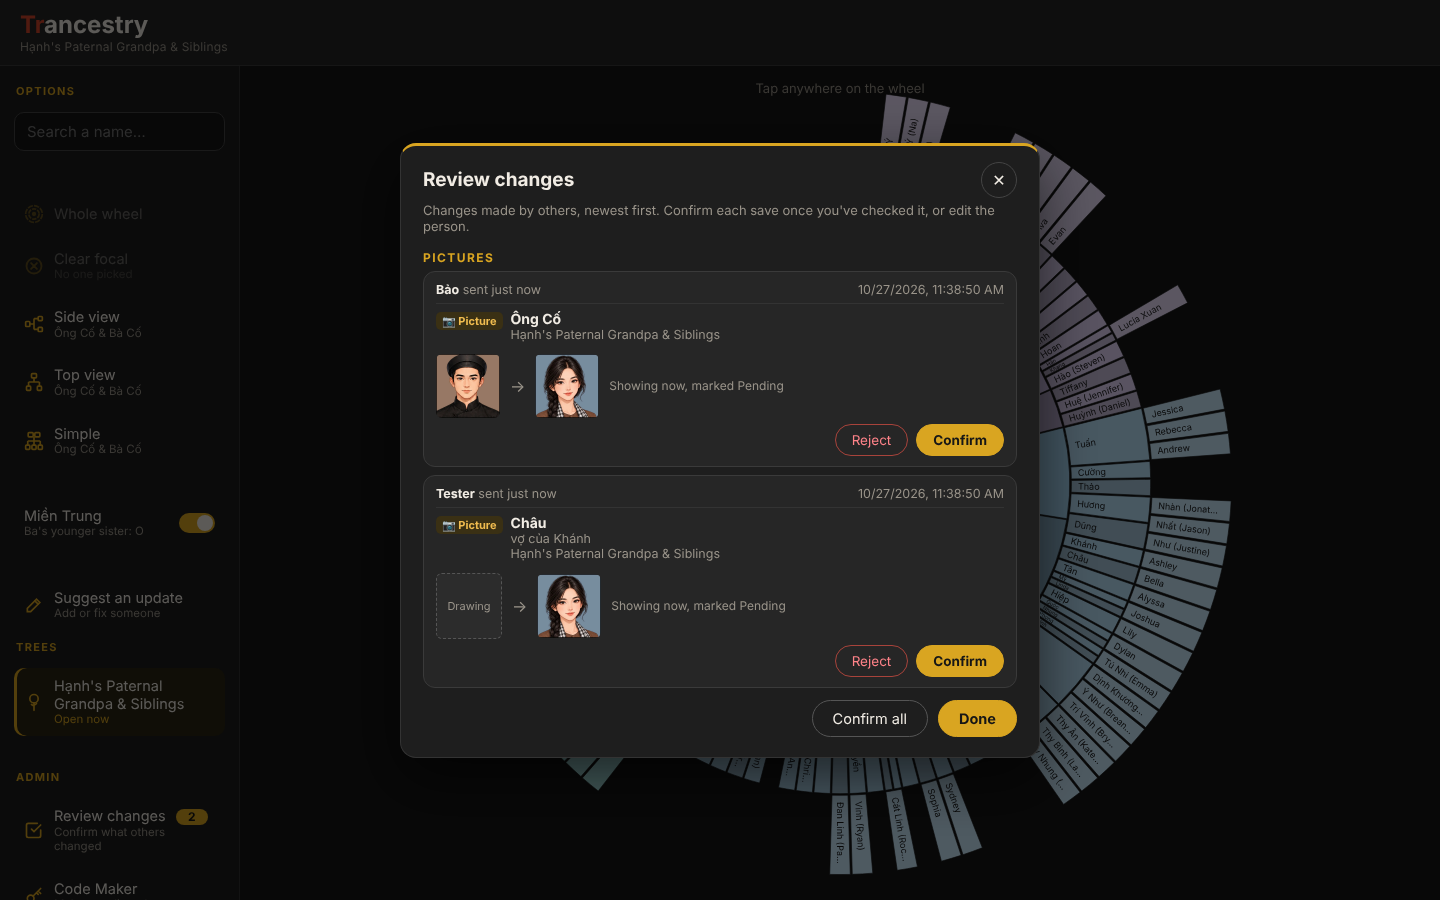
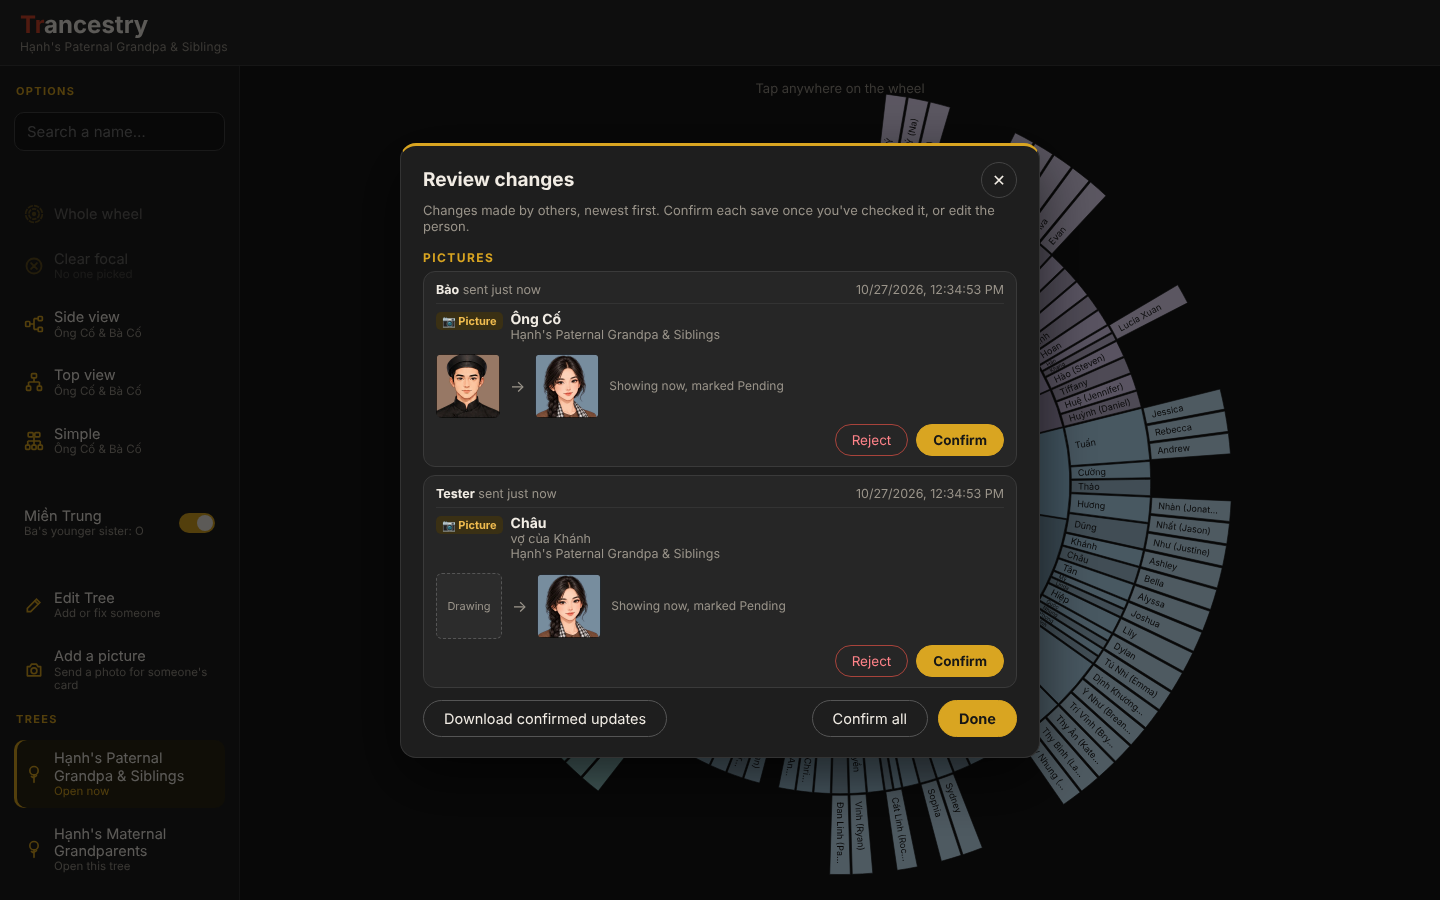
Entry 156: download confirmed updates + fold them into the repo

diff --git a/tools/tests/fold_live.js b/tools/tests/fold_live.js
@@ -1,0 +1,32 @@
+// End-to-end test of Minh's page against a local copy of the Supabase database (same SQL, anon role).
+// The page's calls to https://quqgwvwijvwshdpwvkrk.supabase.co are answered from local Postgres.
+const {chromium}=require('playwright');const {Client}=require('pg');
+const OUT=process.argv[2],TAG=process.argv[3]||'desktop';
+const VP=TAG==='phone'?{viewport:{width:412,height:891},isMobile:true,hasTouch:true,deviceScaleFactor:2}:{viewport:{width:1440,height:900}};
+(async()=>{
+ const db=new Client({host:'/var/tmp/hftpg',port:5499,user:'postgres',database:'hft'});await db.connect();
+ const admin=new Client({host:'/var/tmp/hftpg',port:5499,user:'postgres',database:'hft'});await admin.connect();
+ await db.query('set role anon');
+ let OFFLINE=false;
+ async function answer(route){const req=route.request(),u=new URL(req.url()),path=u.pathname.replace('/rest/v1/','');
+  if(OFFLINE)return route.abort();
+  if(req.headers()['apikey']!=='sb_publishable_nrPplI-hzHW96Ar3dmd5EQ_4AnptidV')return route.fulfill({status:401,body:'{"message":"bad key"}'});
+  try{let rows;
+   if(path==='trees'&&u.searchParams.get('or')){const x=/link\.eq\.([^,]+),/.exec(u.searchParams.get('or'))[1];rows=(await db.query('select id,link,old_links,name,doc,version from trees where link=$1 or $1=any(old_links)',[decodeURIComponent(x)])).rows}
+   else if(path==='trees')rows=(await db.query('select link,name,created_at from trees order by created_at')).rows;
+   else if(path==='people'){const ids=/^in\.\((.*)\)$/.exec(u.searchParams.get('id'))[1].split(',').map(decodeURIComponent);rows=(await db.query('select id,data from people where id=any($1)',[ids])).rows}
+   else if(path==='updates'){rows=(await db.query('select '+u.searchParams.get('select').split(',').map(c=>c.replace(/[^a-z_]/g,'')).join(',')+' from updates'+(u.searchParams.get('status')?' where status=\''+u.searchParams.get('status').replace('eq.','').replace(/[^a-z]/g,'')+'\'':'')+' order by id')).rows}
+   else if(path==='photos'){const sel=u.searchParams.get('select'),id=u.searchParams.get('id');rows=(await db.query('select '+sel.split(',').map(c=>c.replace(/[^a-z_]/g,'')).join(',')+' from photos'+(id?' where id = any(array['+(id.startsWith('in.')?id.slice(4,-1):id.slice(3)).split(',').map(Number).join(',')+']::bigint[])':'')+' order by at desc')).rows}
+   else if(path.startsWith('rpc/')){const fn=path.slice(4),a=JSON.parse(req.postData()),ks=Object.keys(a);
+    const r=await db.query(`select public.${fn}(${ks.map((k,i)=>`${k}=>$${i+1}`).join(',')}) as r`,ks.map(k=>Array.isArray(a[k])&&k!=='p_ops'?a[k]:typeof a[k]==='object'?JSON.stringify(a[k]):a[k]));rows=r.rows[0].r}
+   else return route.fulfill({status:404,body:'{}'});
+   route.fulfill({status:200,contentType:'application/json',body:JSON.stringify(rows)})}
+  catch(e){route.fulfill({status:400,contentType:'application/json',body:JSON.stringify({message:e.message})})}}
+ const b=await chromium.launch();
+ const mk=async()=>{const ctx=await b.newContext({...VP,acceptDownloads:true});await ctx.route('https://quqgwvwijvwshdpwvkrk.supabase.co/**',answer);const p=await ctx.newPage();p.errs=[];p.on('pageerror',e=>p.errs.push('ERR '+e.message));return p};
+ const ready=async p=>{await p.waitForFunction(()=>typeof window.EDIT==='function',null,{timeout:20000});await p.waitForTimeout(1500)};
+ await admin.query(`insert into updates(sender,summary,ops,status) values ('Tester','x','[{"op":"edit","id":"N262","set":{"alt":"Testfold"},"was":{"alt":""},"t":"hanh-paternal"}]','ok'),('Tester','y','[{"op":"edit","id":"N264","set":{"alt":"Nope"},"was":{"alt":""},"t":"hanh-paternal"}]','rejected')`);
+ const a=await mk();await a.goto('http://localhost:8765/?admin');await ready(a);await a.fill('#codeIn','ADMIN1');await a.click('#codeOk');await a.waitForTimeout(1500);
+ await a.evaluate(()=>{document.body.classList.add('pane-open');document.getElementById('pReview').click()});await a.waitForTimeout(1200);
+ const [dl]=await Promise.all([a.waitForEvent('download'),a.click('#revDl')]);await dl.saveAs(process.argv[4]);console.log('downloaded:',dl.suggestedFilename(),await a.textContent('#revDl'));
+ console.log(a.errs.length?a.errs:'no page errors');await b.close();await db.end();await admin.end()})();

diff --git a/index.html b/index.html
@@ -340,7 +340,7 @@ body.pane-open #pane{transform:none} body.pane-open #lHandle{display:none}
  <div class="top"><h2 id="revTitle">Review changes</h2><button class="x" id="revX" type="button" aria-label="Close">✕</button></div>
  <p id="revSub">Changes made by others, newest first. Confirm each save once you've checked it, or edit the person.</p>
  <div id="revBody"></div>
- <div class="foot"><button class="btn" id="revAll" type="button">Confirm all</button><button class="btn pri" id="revDone" type="button">Done</button></div>
+ <div class="foot"><button class="btn" id="revDl" type="button" style="margin-right:auto">Download confirmed updates</button><button class="btn" id="revAll" type="button">Confirm all</button><button class="btn pri" id="revDone" type="button">Done</button></div>
 </div></div>
 
 <!-- ============ Suggest an update — search first (Entry 144) ============ -->
@@ -1462,6 +1462,14 @@ window.ADMINUI=function(){
   location.href=(MINH.EDITBASE||'')+'?tree='+encodeURIComponent(link)+'&edit='+encodeURIComponent(pid)}
  rv.onclick=()=>{document.body.classList.remove('pane-open');render();dlg.classList.add('on');load()};
  $('revX').onclick=$('revDone').onclick=()=>{dlg.classList.remove('on');if(DIRTY){DIRTY=false;if(MINH.keep&&typeof viewNow==='function')MINH.keep(viewNow());location.reload()}};   // decided updates → redraw the tree
+ // Entry 156: every confirmed Edit Tree update as one file — Hanh attaches it in the chat and Claude folds it into the
+ // repo (data/updates.json) and lists the changes for the spreadsheet
+ $('revDl').onclick=async()=>{const b=$('revDl');b.textContent='Preparing…';
+  try{const KEY='sb_publishable_nrPplI-hzHW96Ar3dmd5EQ_4AnptidV',r=await fetch('https://quqgwvwijvwshdpwvkrk.supabase.co/rest/v1/updates?select=id,at,sender,summary,ops,status,decided_at,decided_by&status=eq.ok&order=id',{headers:{apikey:KEY,Authorization:'Bearer '+KEY}});
+   if(!r.ok)throw new Error(r.status);const rows=await r.json();
+   const blob=new Blob([JSON.stringify({exported_at:new Date().toISOString(),trees:window.TREENAMES||{},updates:rows},null,1)],{type:'application/json'});
+   const a=document.createElement('a');a.href=URL.createObjectURL(blob);a.download='trancestry-confirmed-updates-'+new Date().toISOString().slice(0,10)+'.json';document.body.appendChild(a);a.click();a.remove();
+   b.textContent='Downloaded ('+rows.length+')'}catch(e){b.textContent="Can't reach the database"}setTimeout(()=>b.textContent='Download confirmed updates',4000)};
  $('revAll').onclick=async()=>{if(UPD.length)await decideU(UPD.map(u=>u.id),true,null);if(PICS.length)await decide(PICS.map(p=>p.id),true,null);if(LIST.length)confirmIds(LIST.map(c=>c.id),$('revAll'))};
  addEventListener('keydown',e=>{if(e.key==='Escape'&&dlg.classList.contains('on')){e.stopImmediatePropagation();dlg.classList.remove('on')}},true);
  load();

diff --git a/minh/index.html b/minh/index.html
@@ -339,7 +339,7 @@ body.pane-open #pane{transform:none} body.pane-open #lHandle{display:none}
  <div class="top"><h2 id="revTitle">Review changes</h2><button class="x" id="revX" type="button" aria-label="Close">✕</button></div>
  <p id="revSub">Changes made by others, newest first. Confirm each save once you've checked it, or edit the person.</p>
  <div id="revBody"></div>
- <div class="foot"><button class="btn" id="revAll" type="button">Confirm all</button><button class="btn pri" id="revDone" type="button">Done</button></div>
+ <div class="foot"><button class="btn" id="revDl" type="button" style="margin-right:auto">Download confirmed updates</button><button class="btn" id="revAll" type="button">Confirm all</button><button class="btn pri" id="revDone" type="button">Done</button></div>
 </div></div>
 
 <script src="../v2/d3.min.js"></script>
@@ -1456,6 +1456,14 @@ window.ADMINUI=function(){
   location.href=(MINH.EDITBASE||'')+'?tree='+encodeURIComponent(link)+'&edit='+encodeURIComponent(pid)}
  rv.onclick=()=>{document.body.classList.remove('pane-open');render();dlg.classList.add('on');load()};
  $('revX').onclick=$('revDone').onclick=()=>{dlg.classList.remove('on');if(DIRTY){DIRTY=false;if(MINH.keep&&typeof viewNow==='function')MINH.keep(viewNow());location.reload()}};   // decided updates → redraw the tree
+ // Entry 156: every confirmed Edit Tree update as one file — Hanh attaches it in the chat and Claude folds it into the
+ // repo (data/updates.json) and lists the changes for the spreadsheet
+ $('revDl').onclick=async()=>{const b=$('revDl');b.textContent='Preparing…';
+  try{const KEY='sb_publishable_nrPplI-hzHW96Ar3dmd5EQ_4AnptidV',r=await fetch('https://quqgwvwijvwshdpwvkrk.supabase.co/rest/v1/updates?select=id,at,sender,summary,ops,status,decided_at,decided_by&status=eq.ok&order=id',{headers:{apikey:KEY,Authorization:'Bearer '+KEY}});
+   if(!r.ok)throw new Error(r.status);const rows=await r.json();
+   const blob=new Blob([JSON.stringify({exported_at:new Date().toISOString(),trees:window.TREENAMES||{},updates:rows},null,1)],{type:'application/json'});
+   const a=document.createElement('a');a.href=URL.createObjectURL(blob);a.download='trancestry-confirmed-updates-'+new Date().toISOString().slice(0,10)+'.json';document.body.appendChild(a);a.click();a.remove();
+   b.textContent='Downloaded ('+rows.length+')'}catch(e){b.textContent="Can't reach the database"}setTimeout(()=>b.textContent='Download confirmed updates',4000)};
  $('revAll').onclick=async()=>{if(UPD.length)await decideU(UPD.map(u=>u.id),true,null);if(PICS.length)await decide(PICS.map(p=>p.id),true,null);if(LIST.length)confirmIds(LIST.map(c=>c.id),$('revAll'))};
  addEventListener('keydown',e=>{if(e.key==='Escape'&&dlg.classList.contains('on')){e.stopImmediatePropagation();dlg.classList.remove('on')}},true);
  load();

diff --git a/minh/src/review.js b/minh/src/review.js
@@ -80,6 +80,14 @@ window.ADMINUI=function(){
   location.href=(MINH.EDITBASE||'')+'?tree='+encodeURIComponent(link)+'&edit='+encodeURIComponent(pid)}
  rv.onclick=()=>{document.body.classList.remove('pane-open');render();dlg.classList.add('on');load()};
  $('revX').onclick=$('revDone').onclick=()=>{dlg.classList.remove('on');if(DIRTY){DIRTY=false;if(MINH.keep&&typeof viewNow==='function')MINH.keep(viewNow());location.reload()}};   // decided updates → redraw the tree
+ // Entry 156: every confirmed Edit Tree update as one file — Hanh attaches it in the chat and Claude folds it into the
+ // repo (data/updates.json) and lists the changes for the spreadsheet
+ $('revDl').onclick=async()=>{const b=$('revDl');b.textContent='Preparing…';
+  try{const KEY='sb_publishable_nrPplI-hzHW96Ar3dmd5EQ_4AnptidV',r=await fetch('https://quqgwvwijvwshdpwvkrk.supabase.co/rest/v1/updates?select=id,at,sender,summary,ops,status,decided_at,decided_by&status=eq.ok&order=id',{headers:{apikey:KEY,Authorization:'Bearer '+KEY}});
+   if(!r.ok)throw new Error(r.status);const rows=await r.json();
+   const blob=new Blob([JSON.stringify({exported_at:new Date().toISOString(),trees:window.TREENAMES||{},updates:rows},null,1)],{type:'application/json'});
+   const a=document.createElement('a');a.href=URL.createObjectURL(blob);a.download='trancestry-confirmed-updates-'+new Date().toISOString().slice(0,10)+'.json';document.body.appendChild(a);a.click();a.remove();
+   b.textContent='Downloaded ('+rows.length+')'}catch(e){b.textContent="Can't reach the database"}setTimeout(()=>b.textContent='Download confirmed updates',4000)};
  $('revAll').onclick=async()=>{if(UPD.length)await decideU(UPD.map(u=>u.id),true,null);if(PICS.length)await decide(PICS.map(p=>p.id),true,null);if(LIST.length)confirmIds(LIST.map(c=>c.id),$('revAll'))};
  addEventListener('keydown',e=>{if(e.key==='Escape'&&dlg.classList.contains('on')){e.stopImmediatePropagation();dlg.classList.remove('on')}},true);
  load();

diff --git a/minh/src/review.html b/minh/src/review.html
@@ -26,5 +26,5 @@
  <div class="top"><h2 id="revTitle">Review changes</h2><button class="x" id="revX" type="button" aria-label="Close">✕</button></div>
  <p id="revSub">Changes made by others, newest first. Confirm each save once you've checked it, or edit the person.</p>
  <div id="revBody"></div>
- <div class="foot"><button class="btn" id="revAll" type="button">Confirm all</button><button class="btn pri" id="revDone" type="button">Done</button></div>
+ <div class="foot"><button class="btn" id="revDl" type="button" style="margin-right:auto">Download confirmed updates</button><button class="btn" id="revAll" type="button">Confirm all</button><button class="btn pri" id="revDone" type="button">Done</button></div>
 </div></div>

diff --git a/tools/build_minh.py b/tools/build_minh.py
@@ -51,7 +51,7 @@ def build(R, mode='minh', T=None, name=None):
         P('url(../fonts/', 'url(fonts/', t.count('url(../fonts/'))
     # 2. the tree comes from Minh's store; titles are computed in the page
     # Entry 132: the tree comes from Supabase — store.js loads it, then starts the engine (kept in a text/hft-engine block)
-    P('<script>\nconst T=__TREE__, KIN=__KIN__;', '<script>\n' + (src('store_main.js').replace('__BASE__', json.dumps({lnk: dict(base(tt), name=nm, pre=pre) for lnk, (tt, nm, pre) in T.items()}, ensure_ascii=False, separators=(',', ':'))) if MAIN else src('store.js')) + '\n</script>\n<script type="text/hft-engine" id="engine">\n' + src('kin.js') + '\n' + ('window.PENW=0;' if MAIN else 'window.PENW=30;window.PID=c=>c;') + 'let T=MINH.tree(), KIN=buildKin(T);')
+    P('<script>\nconst T=__TREE__, KIN=__KIN__;', '<script>\n' + (src('store_main.js').replace('__BASE__', json.dumps({lnk: dict(fold(R, lnk, base(tt)), name=nm, pre=pre) for lnk, (tt, nm, pre) in T.items()}, ensure_ascii=False, separators=(',', ':'))) if MAIN else src('store.js')) + '\n</script>\n<script type="text/hft-engine" id="engine">\n' + src('kin.js') + '\n' + ('window.PENW=0;' if MAIN else 'window.PENW=30;window.PID=c=>c;') + 'let T=MINH.tree(), KIN=buildKin(T);')
     # 3. after a save the page comes back without the splash
     P('(function splash(){', "(function splash(){if(MINH.restore){document.getElementById('splash').remove();return}")
     # 4. an empty wheel (only Thương's parents): a tap opens the Simple view to start adding people
@@ -134,6 +134,39 @@ def base(T):
         if n.get('s'): d['s'] = 1
         return d
     return {'root': conv(T), 'people': people}
+
+def fold(R, link, B):
+    """Entry 156: apply the confirmed updates folded into data/updates.json (same rules as the page's store)."""
+    f = R/'data/updates.json'
+    if not f.exists(): return B
+    def find(n, i, par=None):
+        if i in n['k']: return n, par
+        for c in n.get('c', []):
+            r = find(c, i, n)
+            if r: return r
+    for u in json.load(open(f, encoding='utf-8'))['updates']:
+        for o in u['ops']:
+            if o.get('t', 'hanh-paternal') != link: continue
+            if o['op'] == 'edit' and o['id'] in B['people']: B['people'][o['id']].update(o.get('set') or {})
+            elif o['op'] in ('spouse', 'child') and o['id'] not in B['people']:
+                r = find(B['root'], o['to'])
+                if not r: continue
+                b = r[0]; B['people'][o['id']] = dict(o['person'])
+                if o['op'] == 'spouse': b['k'].insert(max(1, min(o['at'], len(b['k']))), o['id'])
+                else:
+                    c = {'k': [o['id']], 'c': []}
+                    if o.get('m') and o['m'] in b['k']: c['m'] = o['m']
+                    b.setdefault('c', []).insert(max(0, min(o['at'], len(b['c']))), c)
+            elif o['op'] == 'remove':
+                r = find(B['root'], o['id'])
+                if not r or (r[1] is None and r[0]['k'][0] == o['id']): continue
+                b, par = r; i = b['k'].index(o['id'])
+                if i > 0:
+                    two = len(b['k']) == 2; b['k'].pop(i)
+                    if two:
+                        for c in b.get('c', []): c.setdefault('m', o['id'])
+                elif not b.get('c') and par: par['c'].remove(b)
+    return B
 
 if __name__ == '__main__':
     build(pathlib.Path(sys.argv[1] if len(sys.argv) > 1 else '.'))

diff --git a/tools/fold_updates.py b/tools/fold_updates.py
@@ -1,0 +1,44 @@
+#!/usr/bin/env python3
+"""Fold confirmed Edit Tree updates into the repo (Entry 156).
+
+  python3 tools/fold_updates.py <trancestry-confirmed-updates-YYYY-MM-DD.json>
+
+- data/updates.json keeps every confirmed update (by id; re-running with a newer download adds only new ones).
+  tools/build_minh.py base() applies them to the trees built into the main page, so they are part of the tree
+  even before the database is read (the page applies them again harmlessly: same ids).
+- data/updates_for_spreadsheet.md lists each change with the sheet and cell, for Hanh to copy into his spreadsheet.
+"""
+import json, sys, pathlib
+R = pathlib.Path(__file__).resolve().parent.parent
+src = json.load(open(sys.argv[1], encoding='utf-8'))
+dst = R/'data/updates.json'
+have = json.load(open(dst, encoding='utf-8')) if dst.exists() else {'_about': 'Confirmed Edit Tree updates folded into the repo (Entry 156); applied by tools/build_minh.py.', 'updates': []}
+ids = {u['id'] for u in have['updates']}
+new = [u for u in src['updates'] if u.get('status') == 'ok' and u['id'] not in ids]
+have['updates'] += new; have['updates'].sort(key=lambda u: u['id'])
+open(dst, 'w', encoding='utf-8').write(json.dumps(have, ensure_ascii=False, indent=1) + '\n')
+# the spreadsheet list
+trees = {v['link']: (k, v) for k, v in json.load(open(R/'data/trees.json', encoding='utf-8')).items() if not k.startswith('_') and 'link' in v}
+def cell(t, i):
+    sheet, v = trees.get(t, (t, {'prefix': ''}))
+    pre = v.get('prefix', '')
+    if pre and i.startswith(pre): return sheet, i[len(pre):]
+    return sheet, (i if not i.startswith('u-') else 'new person')
+F = {'first': 'First name', 'middle': 'Middle name', 'last': 'Last name', 'alt': 'Nickname', 'g': 'Male / Female', 'dead': 'Has passed', 'adopted': 'Adopted', 'god': 'Godparents'}
+nm = lambda p: ((p.get('title') + ' ') if p.get('title') else '') + (p.get('first') or '??') + (f" ({p['alt']})" if p.get('alt') else '')
+lines = ['# Confirmed updates to copy into the spreadsheet', '', f'_Folded {len(have["updates"])} updates; new this time: {len(new)}._', '']
+for u in have['updates']:
+    lines.append(f"## #{u['id']} · {u['sender']} · {u['at'][:10]} — {u.get('summary', '')}")
+    for o in u['ops']:
+        t = o.get('t', 'hanh-paternal'); sheet, c = cell(t, o.get('id', ''))
+        if o['op'] == 'edit':
+            for k, v in (o.get('set') or {}).items():
+                lines.append(f"- **{sheet}!{c}** {F.get(k, k)}: {json.dumps((o.get('was') or {}).get(k, ''), ensure_ascii=False)} → {json.dumps(v, ensure_ascii=False)}")
+        elif o['op'] == 'remove':
+            lines.append(f"- **{sheet}!{c}** remove {nm(o.get('was') or {})} ({o.get('why')})")
+        else:
+            ps, pc = cell(t, o.get('to', ''))
+            lines.append(f"- **{sheet}** add {nm(o.get('person') or {})} as {'spouse' if o['op'] == 'spouse' else 'child'} of the box at {pc} (position {o.get('at')})")
+    lines.append('')
+open(R/'data/updates_for_spreadsheet.md', 'w', encoding='utf-8').write('\n'.join(lines))
+print(f'{len(new)} new confirmed updates folded; {len(have["updates"])} in data/updates.json')

diff --git a/SESSION_LEDGER.md b/SESSION_LEDGER.md
@@ -2317,3 +2317,15 @@ Hanh: "stop protocol." Session S007 (Entries 129–139) covered:
   rejected → the drawing comes back at once). Family members don't see the block. `supabase/07_photo_remove.sql`.
 - Tests: `tools/tests/photo_remove_live.js` (phone + desktop) + `?person=` check. **Locked and pushed.** Hanh to run 07.
 - **Live (Hanh):** `07_photo_remove.sql` run → "ready".
+
+## Entry 156 (2026-10-27) — Folding confirmed updates into the repo
+- The workspace can't reach supabase.co (proxy). Hanh chose a **download button**: Review changes (admin) →
+  **"Download confirmed updates"** saves `trancestry-confirmed-updates-<date>.json` (every update with status ok);
+  Hanh attaches it in the chat; `tools/fold_updates.py <file>` adds new ones to **`data/updates.json`** (by id,
+  repeat-safe) and writes **`data/updates_for_spreadsheet.md`** (each change with sheet!cell, for the spreadsheet).
+  `tools/build_minh.py fold()` applies data/updates.json to the trees built into the main page (same rules as the
+  page; the page re-applies harmlessly). `data/tree.json` (from the spreadsheet) is not rewritten.
+- Hanh asked about earlier updates: confirmed → live and in the download (old ops without `t` = paternal tree);
+  pending → stay Pending; rejected → ignored. Test changes: reject if pending; if confirmed, put the value back via
+  Edit Tree and confirm (later change wins).
+- Tested with test data (removed afterwards); titles 38,416 / 38,416; regressions pass. **Locked and pushed.**
